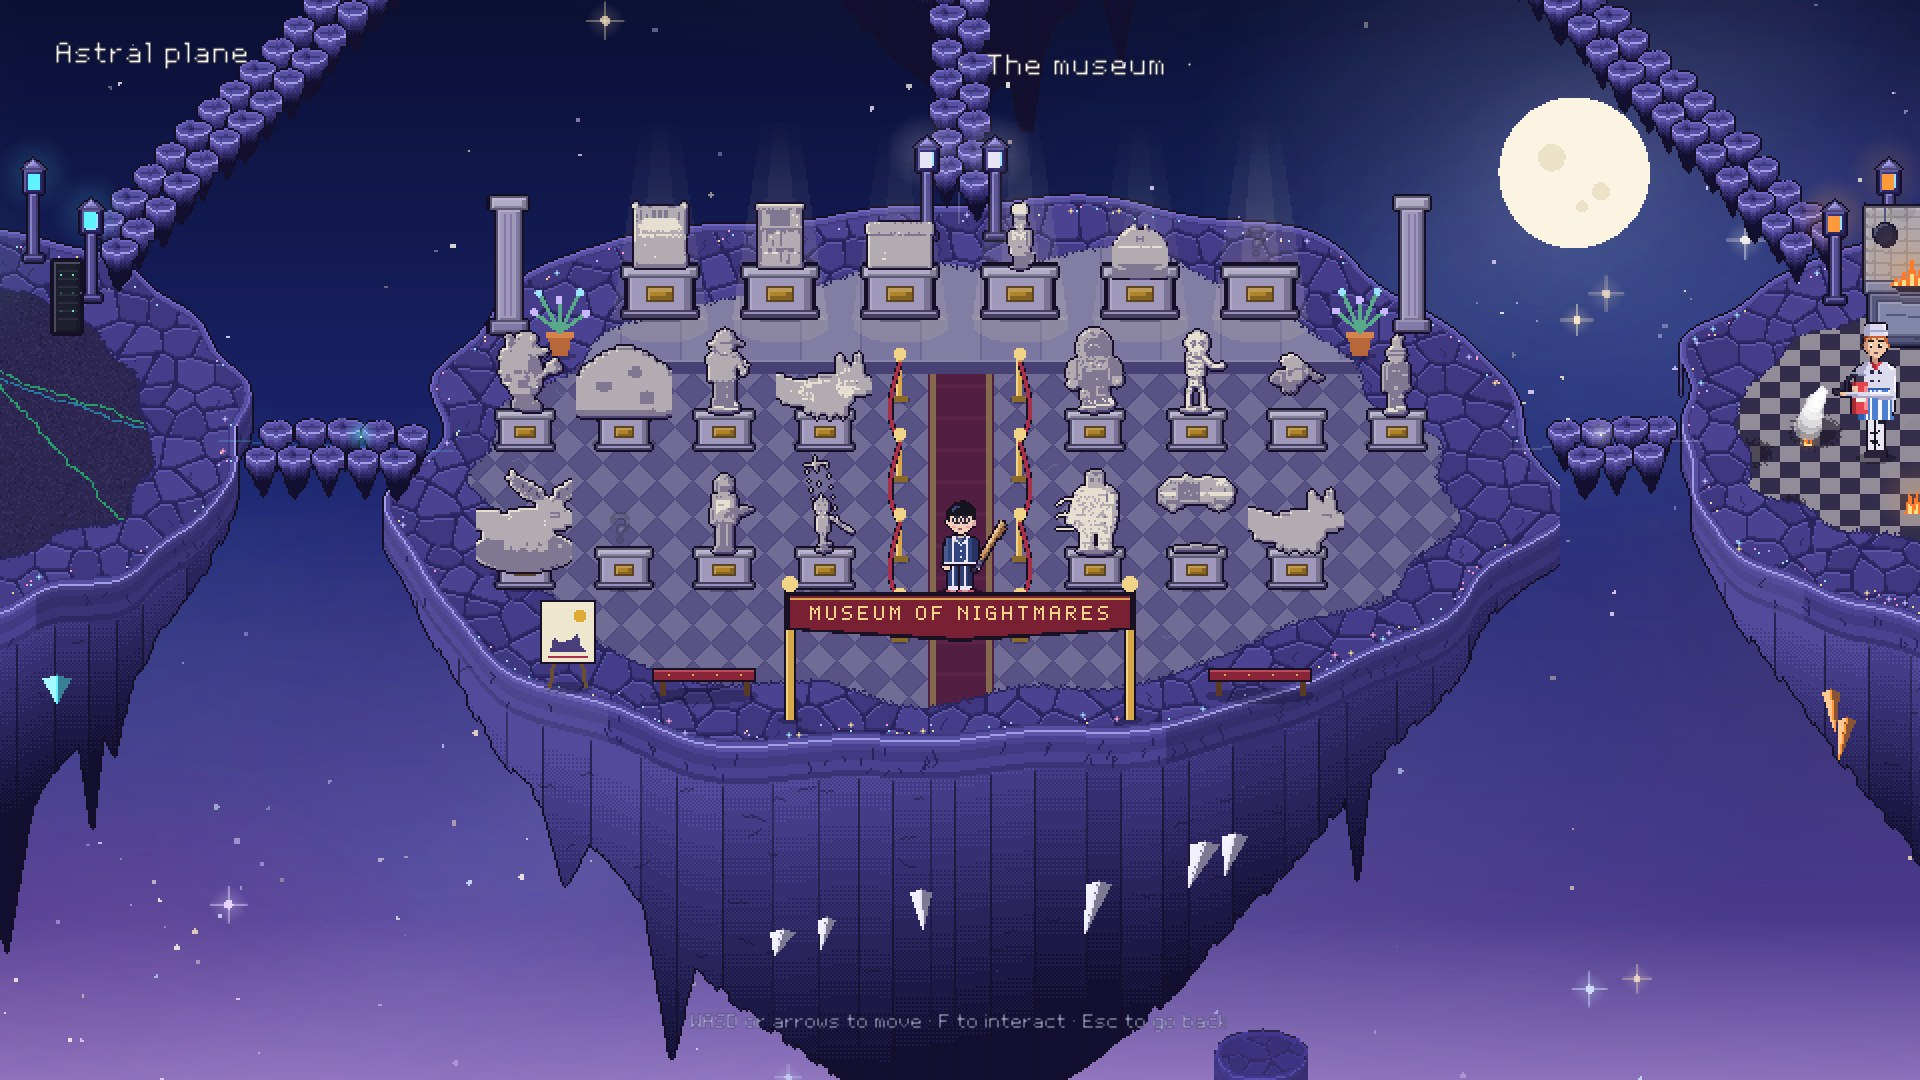
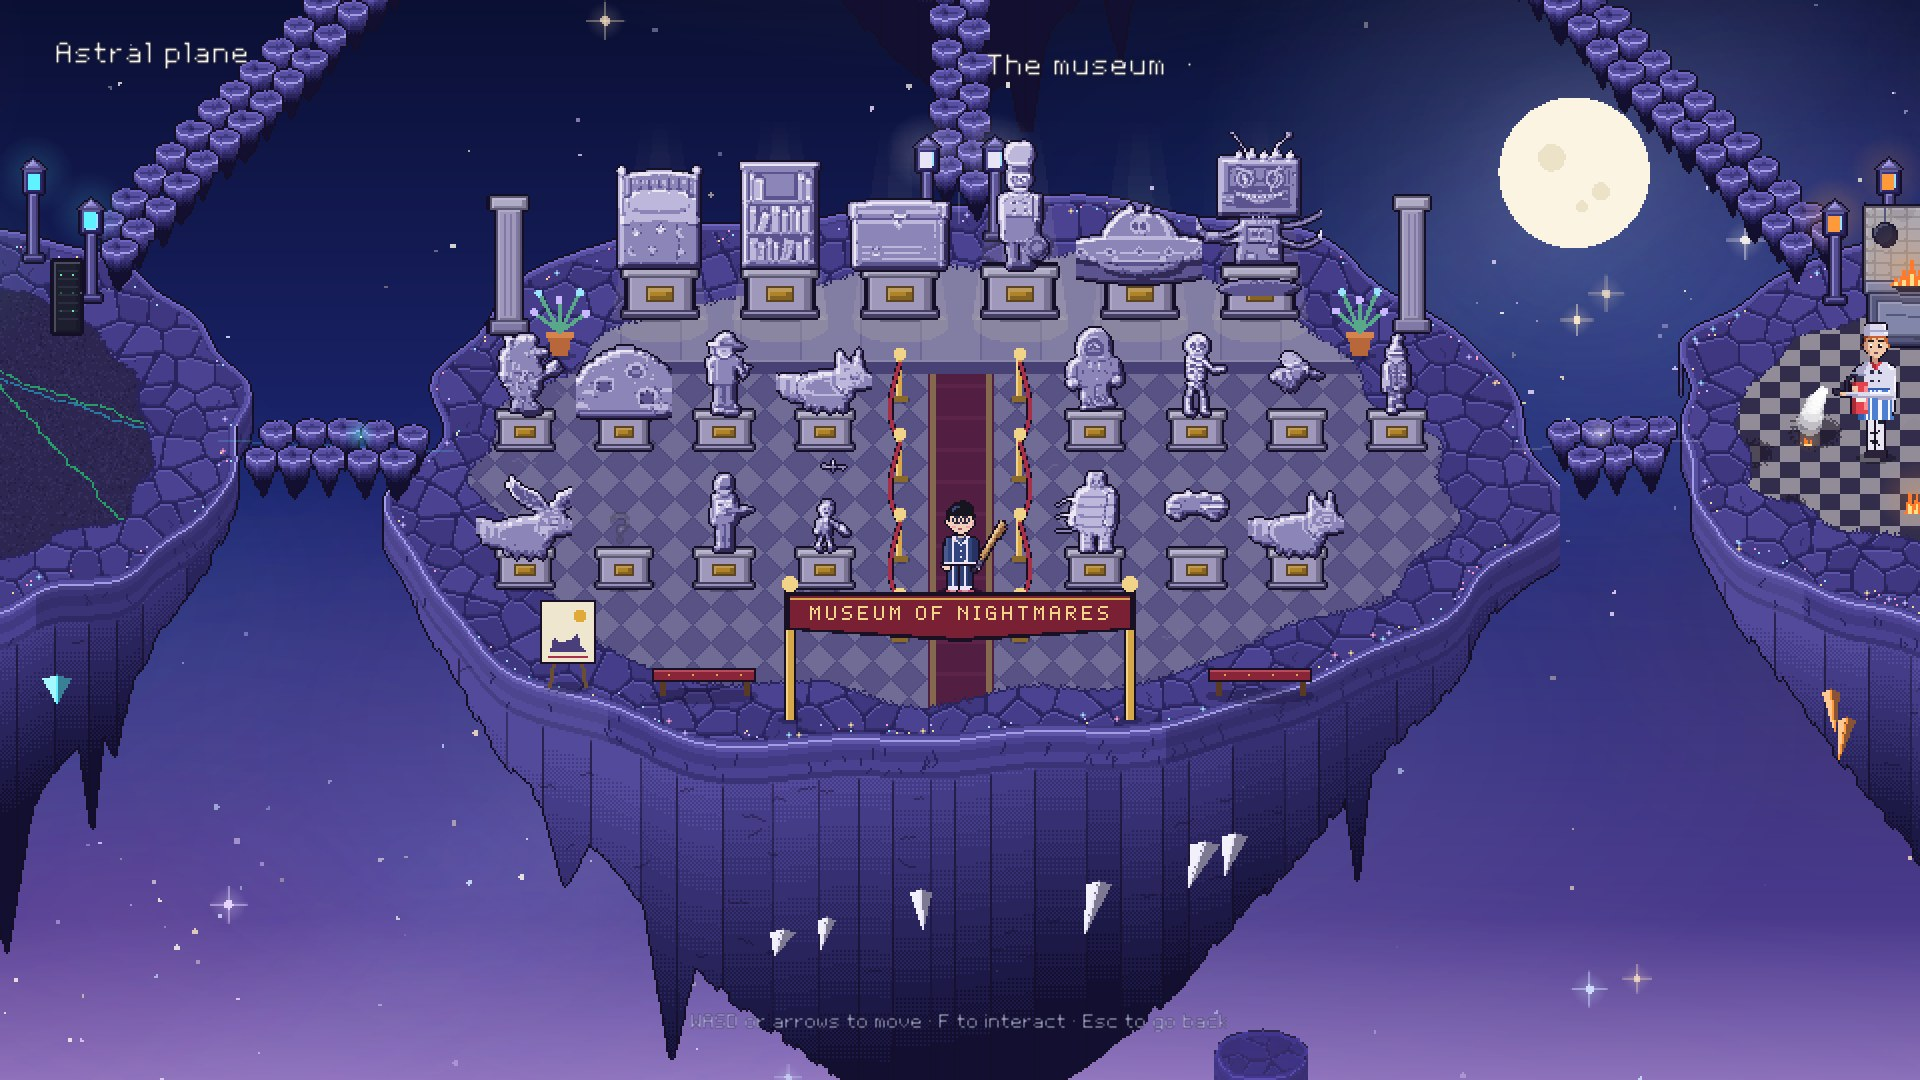
Estatuas del museo esculpidas: horneadas a triple tamaño, relieve por la forma, detalle y cinco tonos de piedra
Claude-Session: https://claude.ai/code/session_01GdGrTqZ9MwK91drfN3VgwU

diff --git a/README.md b/README.md
@@ -351,7 +351,7 @@ La vida no se rellena entre sueños: solo recuperas un 5 % de la vida máxima. D
   - **el tatami**, detrás del armario, con un **muñeco de pruebas** para probar el arma, como el esqueleto de Hades: con la **F** entras a entrenar. No se rompe nunca, no hace daño, se tambalea con los golpes y enseña el daño por segundo. Los empujones lo arrastran por el tatami y, si lo sacas por el borde, cae al vacío; al segundo vuelve a su sitio. Con **Esc** → *Volver al plano astral* sales;
   - **el museo**, que sustituye al bestiario: una galería de mármol en rombos con un pasillo de alfombra granate y cordones de terciopelo desde la entrada; las pesadillas a los dos lados del pasillo y los jefes en pedestales grandes sobre la tarima del fondo, entre dos columnas. Una estatua por cada enemigo que has visto, con su ficha al mirarla; los que faltan tienen un signo de interrogación de piedra. Bajo el cartel de la entrada, «Museo de las pesadillas», hay un caballete con el cartel de la exposición; a los lados, bancos de terciopelo, y junto a las columnas, macetas con plantas de sueño. Sobre cada jefe cae un haz de luz suave.
 - **Desbloquear todo:** botón del menú principal (hay que pulsarlo dos veces) que desbloquea logros, pijamas, personajes, bestiario y la dificultad pesadilla.
-- **Museo:** las estatuas son de piedra tallada de verdad: cada una se pinta una vez en su propia textura, quieta, y se le pone contorno oscuro, filo de luz arriba a la izquierda, sombra abajo a la derecha y grano de cincel; la luz se reparte para que los enemigos oscuros y los claros sean de la misma piedra y cada ficha está escrita con la voz de Kroker.
+- **Museo:** las estatuas son de piedra tallada de verdad: cada una se pinta una vez, quieta y a triple tamaño, en su propia textura, y al reducirla se esculpe: el relieve sale de la forma (luz arriba a la izquierda, sombra en los huecos y abajo), el color del enemigo solo deja el detalle (ojos, bocas, pliegues), todo pasa a cinco tonos de piedra gris lila con contorno oscuro, y sin auras ni sombras. Los jefes tienen un hueco más grande y Evil Ad se apoya en su pedestal y cada ficha está escrita con la voz de Kroker.
 - **Logros:** hay 37 (entre ellos, romper 15 torretas del Chapuzas, tirar a 10 enemigos por los Bostezos, vencer a El Chef, comprar en el kiosco, sacrificar en la chimenea, ahorrar 100 de Realidad Fragmentada y desbloquear la pelota, el portátil, las botas, a Magnus, a SuperK, a Lil Key y a D. Lynx, conseguir una mejora dúo y una legendaria). Algunos pegan un dibujo infantil nuevo en la pared de la habitación.
 - **Accesibilidad:**
   - intensidad de la sacudida de pantalla (a 0 también quita las micro-pausas);
